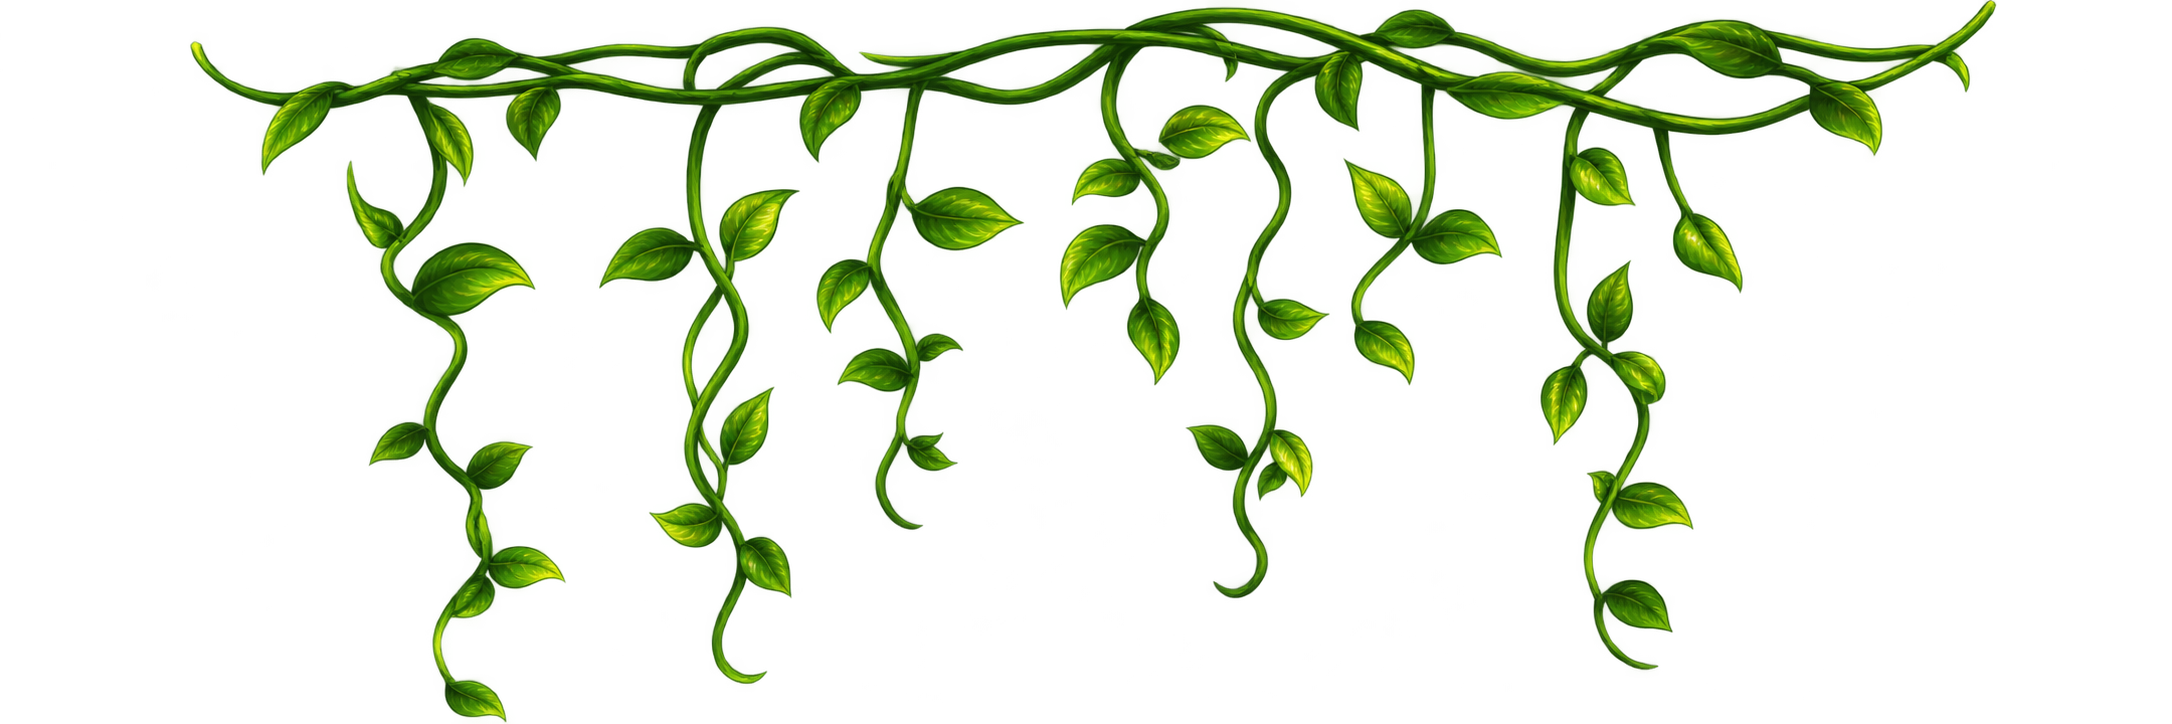
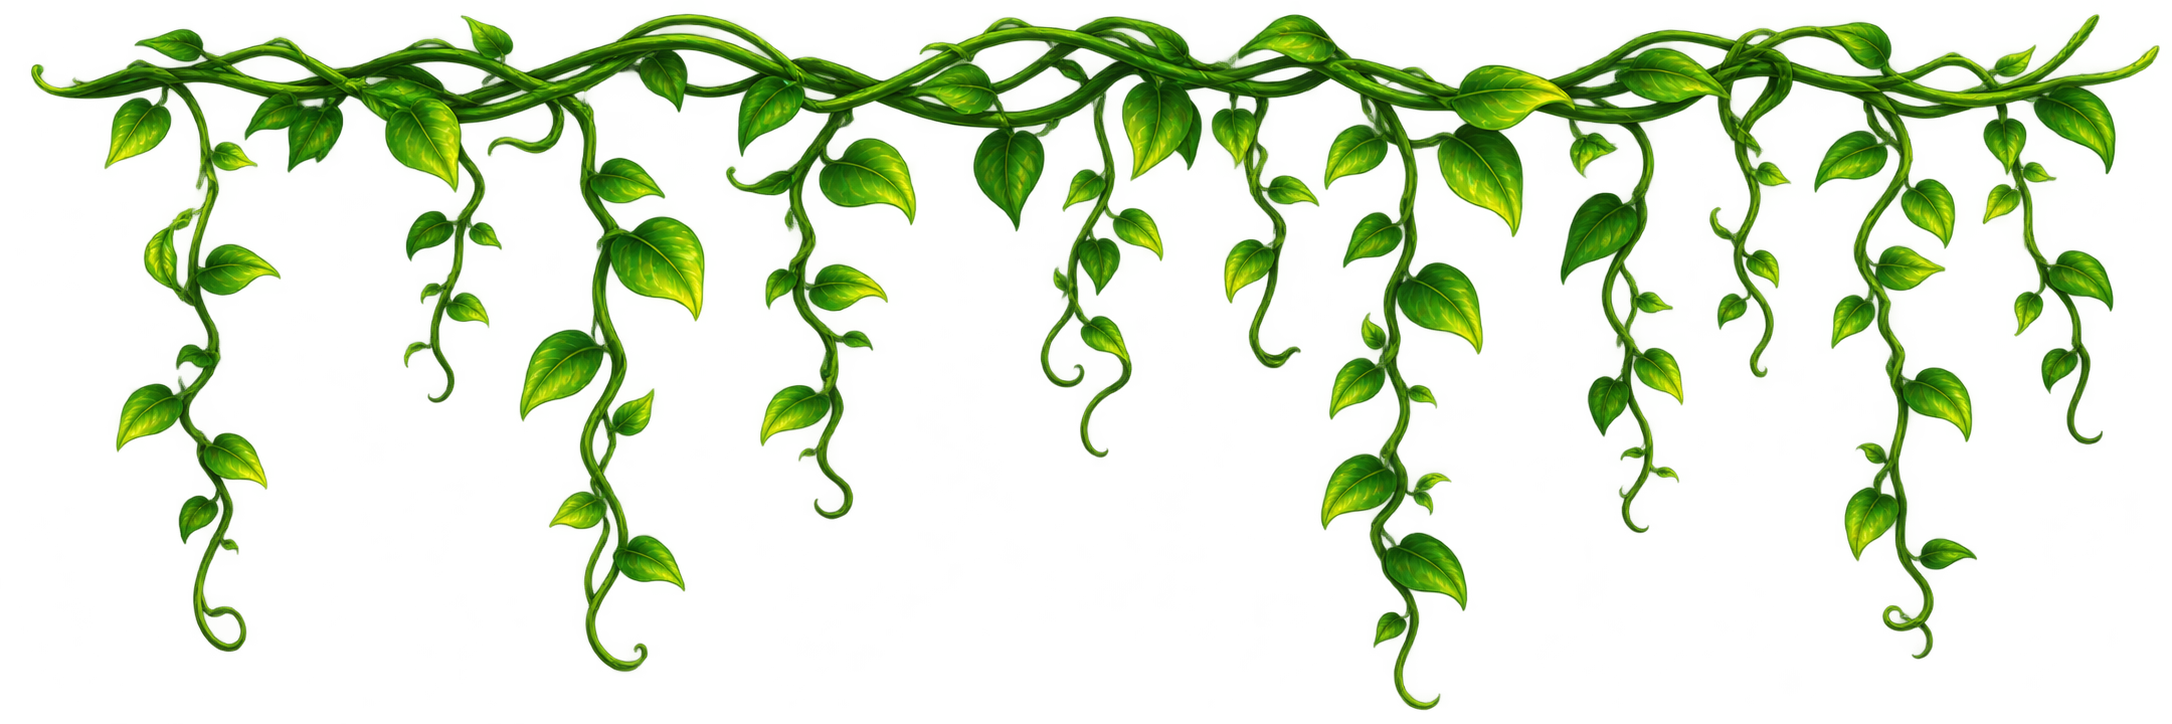
Position full uncut creeper foliage garland behind moving cards at the top of Home screen

diff --git a/web/css/style.css b/web/css/style.css
@@ -4597,13 +4597,23 @@ body.mobile-home-fixed .farm-footer,
 
     .home-creeper-banner {
         top: 0 !important;
-        z-index: 10 !important;
+        left: 0 !important;
+        right: 0 !important;
+        width: 100% !important;
+        z-index: 1 !important;
+        pointer-events: none !important;
+        overflow: hidden !important;
+        line-height: 0 !important;
     }
 
     .home-creeper-img {
-        max-height: 50px !important;
-        object-fit: cover;
-        object-position: top center;
+        width: 100% !important;
+        height: auto !important;
+        max-height: none !important;
+        object-fit: contain !important;
+        object-position: top center !important;
+        display: block !important;
+        filter: drop-shadow(0 4px 12px rgba(0, 0, 0, 0.14));
     }
 
     #screenHome .station-overview {
@@ -4617,7 +4627,9 @@ body.mobile-home-fixed .farm-footer,
         padding: 0;
         width: 100%;
         max-width: 100%;
-        background: #ffffff !important;
+        position: relative;
+        z-index: 2;
+        background: transparent !important;
     }
 
     #screenHome .operations-grid-section,
@@ -4637,7 +4649,7 @@ body.mobile-home-fixed .farm-footer,
         padding: 0.15rem 0 0;
         margin-top: 0.1rem;
         margin-bottom: 0;
-        background: #ffffff !important;
+        background: transparent !important;
     }
 
     .hub-horiz-loop-track {
@@ -4648,6 +4660,7 @@ body.mobile-home-fixed .farm-footer,
         animation: hub-horiz-slide 20s linear infinite;
         will-change: transform;
         padding-top: 0.15rem;
+        background: transparent !important;
     }
 
     .hub-horiz-loop-track:hover,
@@ -5368,7 +5381,7 @@ body.mobile-home-fixed .farm-footer,
     right: 0;
     width: 100%;
     pointer-events: none;
-    z-index: 20;
+    z-index: 1;
     overflow: hidden;
     line-height: 0;
 }
@@ -5376,11 +5389,11 @@ body.mobile-home-fixed .farm-footer,
 .home-creeper-img {
     width: 100%;
     height: auto;
-    max-height: 80px;
-    object-fit: cover;
+    max-height: none;
+    object-fit: contain;
     object-position: top center;
     display: block;
-    filter: drop-shadow(0 2px 6px rgba(0, 0, 0, 0.08));
+    filter: drop-shadow(0 4px 14px rgba(0, 0, 0, 0.12));
 }
 
 @media (min-width: 769px) {
@@ -5407,12 +5420,16 @@ body.mobile-home-fixed .farm-footer,
 
     #screenHome .station-overview {
         height: 100%;
-        background: #ffffff !important;
+        position: relative;
+        z-index: 2;
+        background: transparent !important;
     }
 
     #screenHome .hub-horiz-loop-container {
         width: 100%;
-        background: #ffffff !important;
+        position: relative;
+        z-index: 2;
+        background: transparent !important;
     }
 
     #screenHome .hub-horiz-loop-track {

diff --git a/web/index.html b/web/index.html
@@ -16,7 +16,7 @@
         rel="stylesheet">
 
     <!-- Production Stylesheet -->
-    <link rel="stylesheet" href="css/style.css?v=phase128">
+    <link rel="stylesheet" href="css/style.css?v=phase129">
 
     <!-- PWA -->
     <link rel="manifest" href="manifest.json">
@@ -1598,7 +1598,7 @@
     <!-- Core Runtime Scripts -->
     <script src="https://cdn.jsdelivr.net/npm/marked/marked.min.js"></script>
     <script src="config.js"></script>
-    <script src="js/script.js?v=phase128"></script>
+    <script src="js/script.js?v=phase129"></script>
 </body>
 
 </html>
